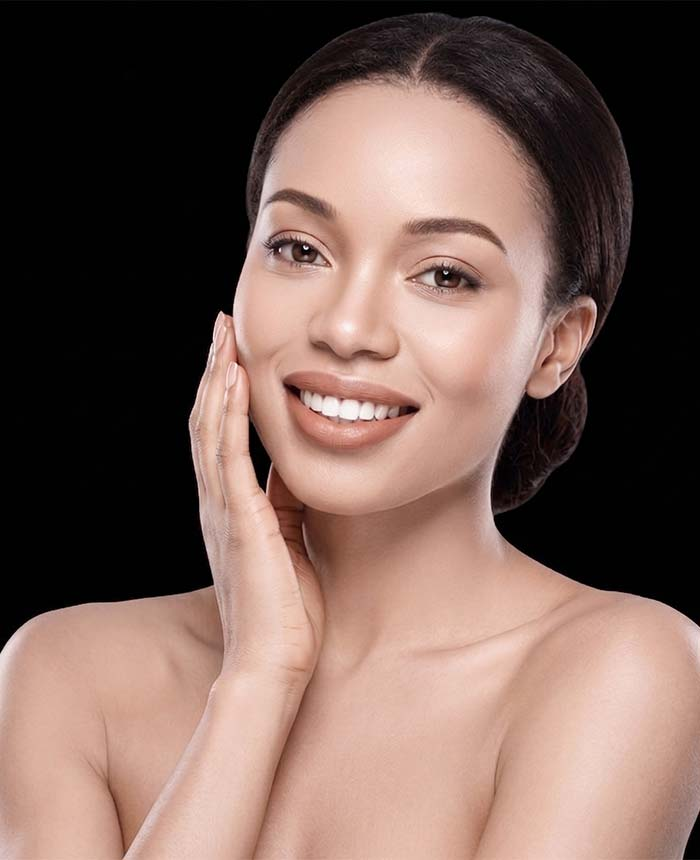
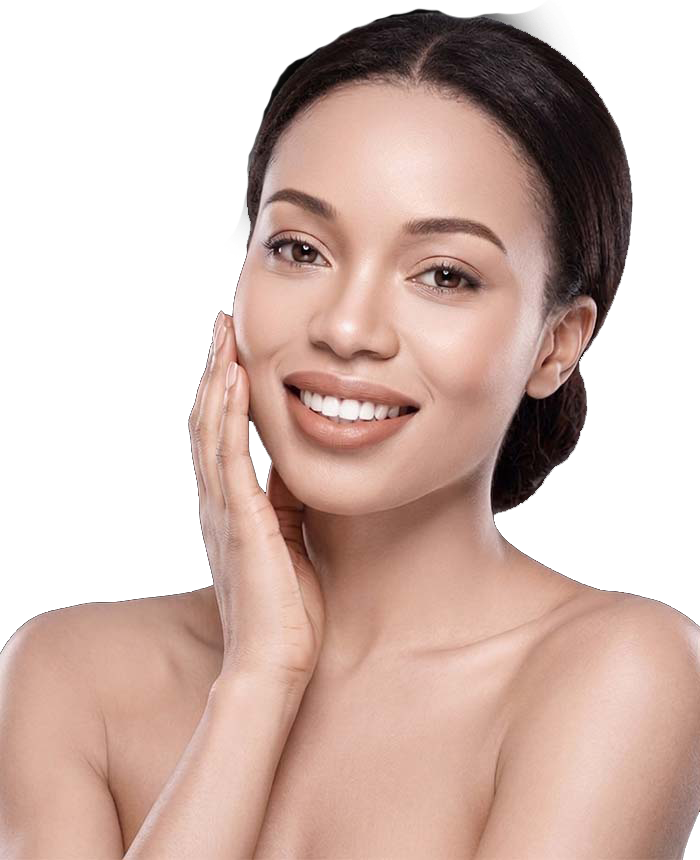
update hero images

diff --git a/index.html b/index.html
@@ -3422,7 +3422,7 @@
                     <div class="swiper-slide">
                       <div class="dz-media radius-md">
                         <img
-                          src="https://clinicmaster.dexignzone.com/skincare/xhtml/images/blog/large/img1.webp"
+                          src="/images/girlface.png"
                           alt=""
                         />
                       </div>
@@ -3446,7 +3446,7 @@
                     <div class="swiper-slide">
                       <div class="dz-media radius-md">
                         <img
-                          src="https://clinicmaster.dexignzone.com/skincare/xhtml/images/blog/large/img1.webp"
+                          src="/images/girlface.png"
                           alt=""
                         />
                       </div>
